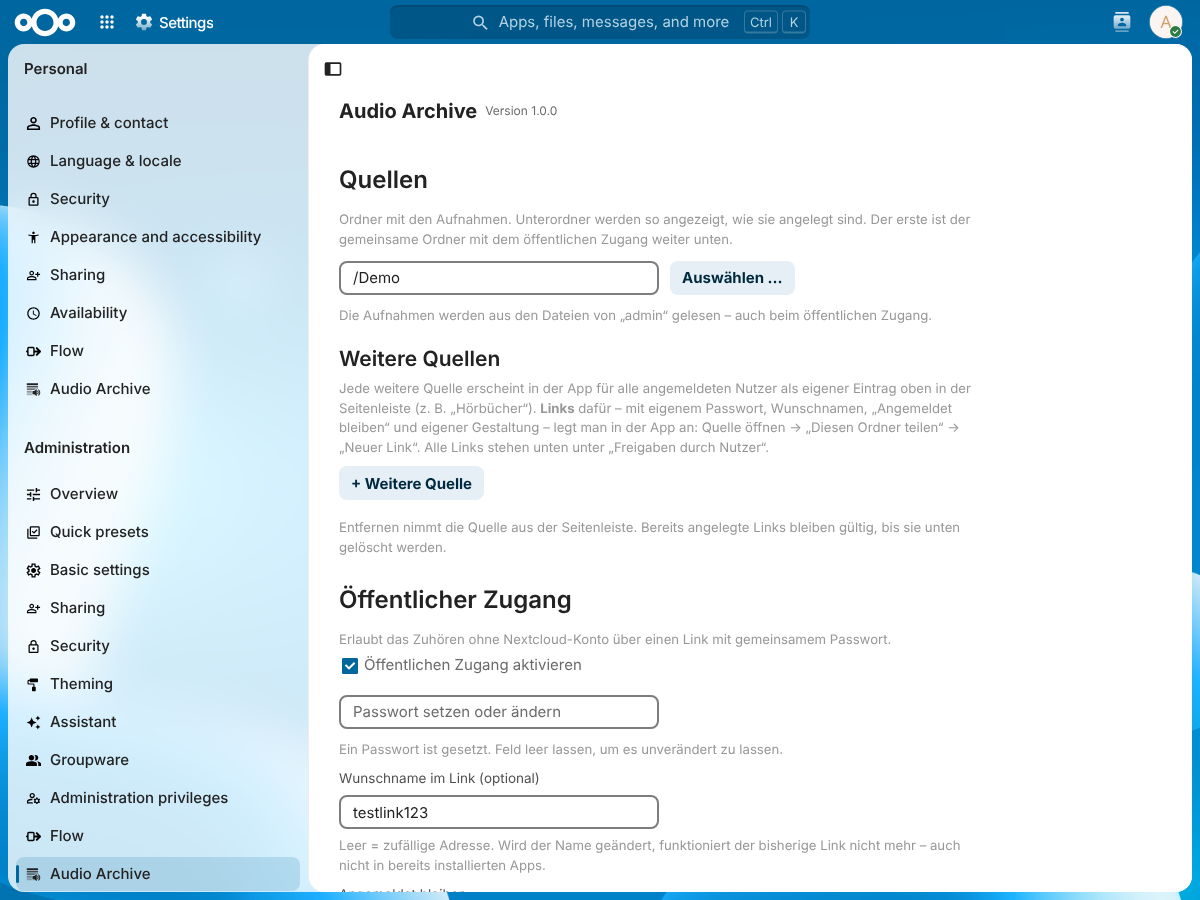
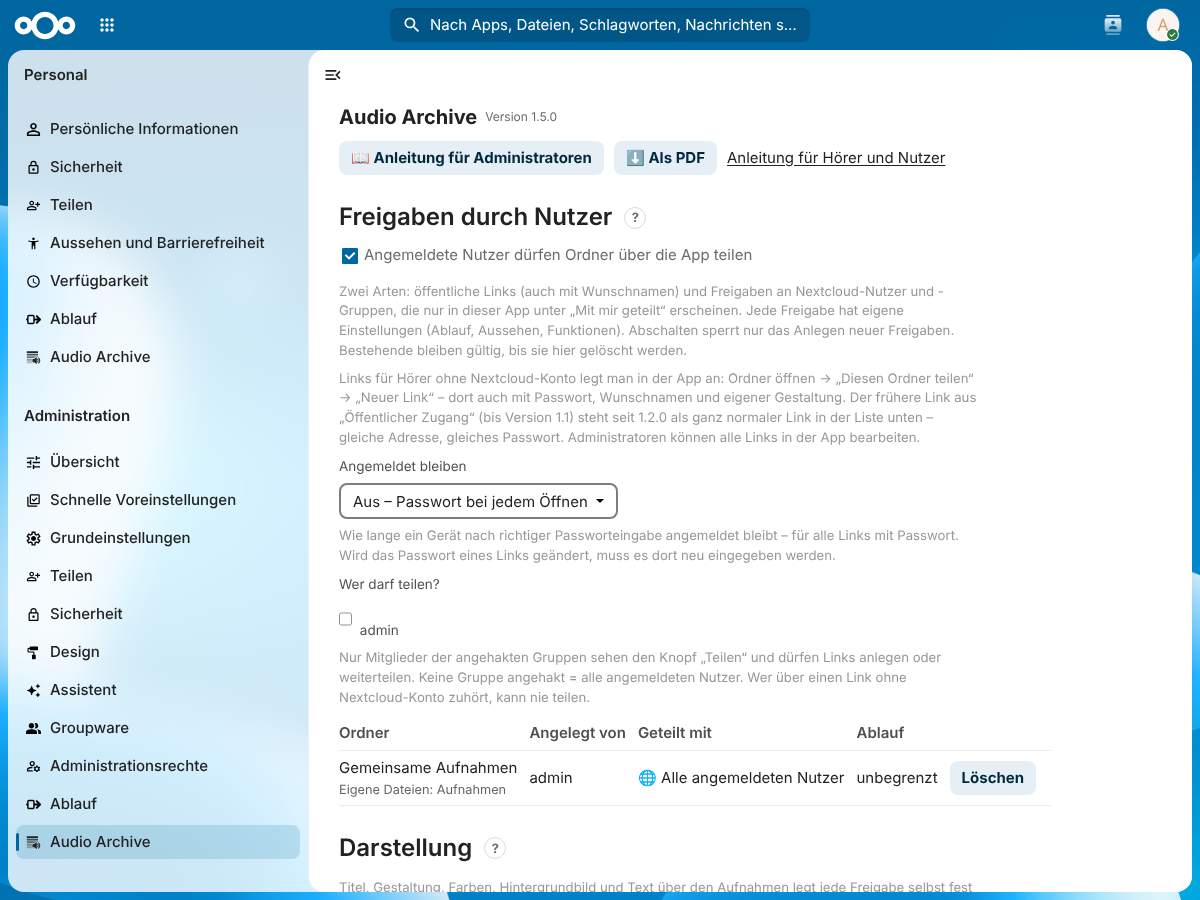
Store-Bilder automatisch aus der Test-Nextcloud, Bild 1 in Nextcloud-Optik
docs/screenshots.py erzeugt die vier Bildschirmfotos aus info.xml in der
Test-Nextcloud neu (Demo-Daten, Testnutzerin, Freigabe an alle).
release.sh prüft über screenshots/version.txt, dass sie zur Version passen.
Bilder für 1.5.0 neu erzeugt.

Assisted-by: ClaudeCode:claude-opus-5-5
Claude-Session: https://claude.ai/code/session_01Cqegn7mvWUCyrytK9gZg5i

Changed region(s): [[0.2775, 0.0933, 0.8633, 0.9956], [0.0, 0.1244, 0.2467, 0.9956], [0.0, 0.0, 1.0, 0.0933]]

diff --git a/docs/screenshots.py b/docs/screenshots.py
@@ -1,0 +1,266 @@
+#!/usr/bin/env python3
+"""Bildschirmfotos fuer den Nextcloud App Store neu erzeugen (ab 1.5.1).
+
+Laeuft gegen die Test-Nextcloud im Sandbox (siehe Vault: "Testumgebung mit
+echter Nextcloud"), in der die aktuelle Fassung der App aktiv ist. Legt
+Demo-Aufnahmen, eine Testnutzerin und eine Freigabe an alle an (mehrfach
+aufrufbar) und schreibt die vier Bilder aus appinfo/info.xml nach
+screenshots/. So zeigen sie immer die Oberflaeche und Versionsnummer der
+Version, die gerade ausgeliefert wird.
+
+    python3 docs/screenshots.py --nc ~/nc/server
+    python3 docs/screenshots.py --nc ~/nc/server --url http://127.0.0.1:8080/index.php
+
+Braucht: php (occ), ffmpeg, Python-Playwright mit Chromium.
+Bild 1 zeigt die Gestaltung "Klassisch" (Nextcloud-Optik, Standard-Blau),
+Bild 2 und 3 die Gestaltung "Modern", Bild 4 die Verwaltung.
+"""
+import argparse
+import json
+import os
+import subprocess
+from datetime import datetime
+from pathlib import Path
+
+from PIL import Image
+from playwright.sync_api import sync_playwright
+
+ROOT = Path(__file__).resolve().parent.parent
+APP = '/apps/audioarchive'
+ADMIN = ('admin', os.environ.get('AA_ADMIN_PASS', 'Admin-Test-123!'))
+LISTENER = ('anna', 'Anna-Demo-Pass-42!', 'Anna')
+SHARE_FOLDER = 'Aufnahmen'
+SHARE_TITLE = 'Gemeinsame Aufnahmen'
+
+# Ordner, Datei, Titel, Kuenstler, Sekunden, Tonhoehe (nur hoerbarer Platzhalter), Datum
+DEMO = [
+    ('Vorträge 2026/2026_01 Januar', '01 Ein neues Jahr', 'Ein neues Jahr', 'Audio Archive Demo', 154, 220, '2026-01-04'),
+    ('Vorträge 2026/2026_01 Januar', '02 Hoffnung', 'Hoffnung', 'Audio Archive Demo', 201, 247, '2026-01-11'),
+    ('Vorträge 2026/2026_02 Februar', '01 Neu anfangen', 'Neu anfangen', 'Audio Archive Demo', 97, 262, '2026-02-01'),
+    ('Vorträge 2026/2026_02 Februar', '02 Dankbarkeit', 'Dankbarkeit', 'Audio Archive Demo', 134, 294, '2026-02-08'),
+    ('Vorträge 2026/2026_02 Februar', '03 Unterwegs mit Fragen', 'Unterwegs mit Fragen', 'Audio Archive Demo', 171, 330, '2026-02-15'),
+    ('Vorträge 2026/2026_02 Februar', '04 Mut zur Lücke', 'Mut zur Lücke', 'Audio Archive Demo', 208, 349, '2026-02-22'),
+    ('Konzerte/Adventskonzert 2025', '01 Macht hoch die Tür', 'Macht hoch die Tür', 'Chor & Orchester', 97, 392, '2025-12-14'),
+    ('Konzerte/Adventskonzert 2025', '02 Tochter Zion', 'Tochter Zion', 'Chor & Orchester', 134, 440, '2025-12-14'),
+    ('Konzerte/Adventskonzert 2025', '03 Stille Nacht', 'Stille Nacht', 'Chor & Orchester', 171, 494, '2025-12-14'),
+    ('Podcast', 'Folge 01 – Wie alles begann', 'Wie alles begann', 'Audio Archive Podcast', 188, 523, '2026-03-02'),
+    ('Podcast', 'Folge 02 – Fragen aus der Gemeinde', 'Fragen aus der Gemeinde', 'Audio Archive Podcast', 215, 587, '2026-03-16'),
+]
+
+# Cover-Bild je Hauptordner: Farbe, Ueberschrift (Unterzeile = Ordnername)
+COVERS = {
+    'Vorträge 2026': ((185, 196, 106), 'Vorträge'),
+    'Konzerte': ((107, 185, 191), 'Konzerte'),
+    'Podcast': ((224, 163, 107), 'Podcast'),
+}
+FONT = '/usr/share/fonts/truetype/dejavu/DejaVuSans-Bold.ttf'
+
+
+def make_cover(target, color, heading, sub):
+    """Einfaches Cover: Kreise auf Farbflaeche, Ueberschrift und Ordnername."""
+    from PIL import ImageDraw, ImageFont
+    size = 800
+    img = Image.new('RGB', (size, size), color)
+    d = ImageDraw.Draw(img)
+    for r in range(80, 380, 50):
+        d.ellipse((size / 2 - r, size / 2 - r, size / 2 + r, size / 2 + r), outline='white', width=4)
+    try:
+        big, small = ImageFont.truetype(FONT, 104), ImageFont.truetype(FONT.replace('-Bold', ''), 52)
+    except OSError:
+        big = small = ImageFont.load_default()
+    d.text((size / 2, size / 2 - 40), heading, font=big, fill='white', anchor='mm')
+    d.text((size / 2, size / 2 + 60), sub, font=small, fill='white', anchor='mm')
+    img.save(target, quality=90)
+
+
+def occ(nc, *args, env=None):
+    return subprocess.run(['php', 'occ', *args], cwd=nc, check=True, capture_output=True,
+                          text=True, env={**os.environ, **(env or {})}).stdout
+
+
+def prepare_files(nc):
+    base = Path(nc) / 'data' / ADMIN[0] / 'files' / SHARE_FOLDER
+    for folder, name, title, artist, secs, freq, day in DEMO:
+        target = base / folder / (name + '.mp3')
+        if target.exists():
+            continue
+        target.parent.mkdir(parents=True, exist_ok=True)
+        subprocess.run(['ffmpeg', '-loglevel', 'error', '-y', '-f', 'lavfi',
+                        '-i', f'sine=frequency={freq}:duration={secs}', '-ac', '1', '-b:a', '48k',
+                        '-metadata', f'title={title}', '-metadata', f'artist={artist}',
+                        '-metadata', 'date=' + day[:4], str(target)], check=True)
+        stamp = datetime.fromisoformat(day + 'T10:00:00').timestamp()
+        os.utime(target, (stamp, stamp))
+    for folder in sorted({d[0] for d in DEMO}):
+        cover = base / folder / 'cover.jpg'
+        if not cover.exists():
+            make_cover(cover, *COVERS[folder.split('/')[0]], Path(folder).name)
+    occ(nc, 'files:scan', ADMIN[0], '-q')
+    users = occ(nc, 'user:list', '--output=json')
+    if LISTENER[0] not in json.loads(users):
+        occ(nc, 'user:add', '--password-from-env', f'--display-name={LISTENER[2]}', LISTENER[0],
+            env={'OC_PASS': LISTENER[1]})
+    else:
+        occ(nc, 'user:resetpassword', '--password-from-env', LISTENER[0], env={'OC_PASS': LISTENER[1]})
+
+
+class Session:
+    """Angemeldete Browser-Sitzung mit Zugriff auf die App-Schnittstelle."""
+
+    def __init__(self, browser, url, user, password, **context):
+        self.url = url
+        self.ctx = browser.new_context(locale='de-DE', **context)
+        self.page = self.ctx.new_page()
+        self.page.goto(url + '/login')
+        self.page.fill('#user', user)
+        self.page.fill('#password', password)
+        self.page.keyboard.press('Enter')
+        self.page.wait_for_url(lambda u: '/login' not in u)
+        self.page.wait_for_load_state('networkidle')
+        self.token = self.page.evaluate('document.head.dataset.requesttoken')
+
+    def api(self, method, path, data=None):
+        headers = {'requesttoken': self.token, 'Content-Type': 'application/json'}
+        r = self.page.request.fetch(self.url + APP + path, method=method, headers=headers,
+                                    data=json.dumps(data) if data is not None else None)
+        if not r.ok:
+            raise RuntimeError(f'{method} {path}: {r.status} {r.text()[:300]}')
+        return r.json()
+
+    def close(self):
+        self.ctx.close()
+
+
+def ensure_share(admin):
+    """Freigabe des Demo-Ordners an alle angemeldeten Nutzer, Kennung zurueck."""
+    for s in admin.api('GET', '/api/shares?source=home&path=' + SHARE_FOLDER).get('shares', []):
+        if s.get('kind') == 'internal' and s.get('path') == SHARE_FOLDER:
+            return s['id']
+    s = admin.api('POST', '/api/shares', {
+        'source': 'home', 'path': SHARE_FOLDER, 'kind': 'internal',
+        'members': [{'type': 'all', 'id': '*'}],
+        'settings': {'title': SHARE_TITLE, 'featureOffline': True},
+    })
+    return s['share']['id']
+
+
+def set_share_design(admin, share_id, design):
+    share = next(s for s in admin.api('GET', '/api/shares')['shares'] if s['id'] == share_id)
+    settings = dict(share['settings'], design=design)
+    admin.api('POST', f'/api/shares/{share_id}', {'settings': settings})
+
+
+def open_recording(page, url, source, path, play=True, at=37):
+    """App mit einer Aufnahme oeffnen; sie laeuft an, steht dann pausiert bei `at` Sekunden."""
+    page.goto(url + '#open=' + source + '|' + path)
+    page.wait_for_load_state('networkidle')
+    name = Path(path).stem
+    row = page.locator('.explorer-row', has_text=name).first
+    row.wait_for()
+    if play:
+        row.click()
+        page.wait_for_function('() => { const a = document.querySelector("audio"); return a && a.duration > 0; }')
+        page.evaluate(f'() => {{ const a = document.querySelector("audio"); a.pause(); a.currentTime = {at}; }}')
+    page.evaluate('() => document.activeElement && document.activeElement.blur()')
+    page.mouse.move(0, 0)
+    page.wait_for_timeout(1200)
+
+
+def shot_library(browser, url, share_id, out):
+    """Bild 1: Bibliothek am Rechner, eingebettet in Nextcloud, Gestaltung Klassisch."""
+    s = Session(browser, url, LISTENER[0], LISTENER[1], viewport={'width': 1200, 'height': 900})
+    s.api('POST', '/api/user/settings', {'design': 'nextcloud'})
+    open_recording(s.page, url + APP + '/', f'in:{share_id}',
+                   'Vorträge 2026/2026_02 Februar/02 Dankbarkeit.mp3')
+    s.page.screenshot(path=str(out / '1-library.png'))
+    Image.open(out / '1-library.png').resize((600, 450), Image.LANCZOS).save(out / '1-library-small.png')
+    s.close()
+
+
+def shot_phone(browser, url, share_id, out):
+    """Bild 2: installierte App am Telefon - Liste und Vollbild-Player nebeneinander."""
+    phone = dict(viewport={'width': 390, 'height': 844}, device_scale_factor=2,
+                 is_mobile=True, has_touch=True)
+    s = Session(browser, url, LISTENER[0], LISTENER[1], **phone)
+    s.api('POST', '/api/user/settings', {'design': 'custom'})
+    open_recording(s.page, url + APP + '/app', f'in:{share_id}',
+                   'Konzerte/Adventskonzert 2025/02 Tochter Zion.mp3', at=48)
+    left = s.page.screenshot()
+    s.page.click('#btn-expand')
+    s.page.wait_for_timeout(1500)
+    right = s.page.screenshot()
+    s.close()
+    compose_side_by_side(left, right, out / '2-player-phone.png')
+
+
+def compose_side_by_side(left_png, right_png, target, margin=40, gap=40, bg=(241, 236, 230)):
+    import io
+    a = Image.open(io.BytesIO(left_png)).convert('RGB')
+    b = Image.open(io.BytesIO(right_png)).convert('RGB')
+    w = margin * 2 + a.width + gap + b.width
+    h = margin * 2 + max(a.height, b.height)
+    canvas = Image.new('RGB', (w, h), bg)
+    canvas.paste(a, (margin, margin))
+    canvas.paste(b, (margin + a.width + gap, margin))
+    canvas.save(target, optimize=True)
+
+
+def shot_share(browser, url, out):
+    """Bild 3: Ordner teilen - Formular fuer einen neuen Link (Gestaltung Modern)."""
+    s = Session(browser, url, *ADMIN, viewport={'width': 1200, 'height': 900})
+    s.api('POST', '/api/user/settings', {'design': 'custom'})
+    open_recording(s.page, url + APP + '/', 'home',
+                   SHARE_FOLDER + '/Vorträge 2026/2026_02 Februar/01 Neu anfangen.mp3', play=False)
+    s.page.click('#share-btn')
+    s.page.locator('#share-panel button', has_text='Neuer Link').first.click()
+    s.page.wait_for_timeout(1200)
+    s.page.mouse.move(0, 0)
+    s.page.screenshot(path=str(out / '3-share.png'))
+    s.close()
+
+
+def shot_admin(browser, url, out):
+    """Bild 4: Einstellungen der Verwaltung in Nextcloud."""
+    s = Session(browser, url, *ADMIN, viewport={'width': 1200, 'height': 900})
+    s.page.goto(url + '/settings/admin/audioarchive')
+    s.page.wait_for_load_state('networkidle')
+    s.page.wait_for_timeout(1000)
+    s.page.screenshot(path=str(out / '4-admin.png'))
+    s.close()
+
+
+def main():
+    ap = argparse.ArgumentParser(description=__doc__.split('\n')[0])
+    ap.add_argument('--nc', required=True, help='Verzeichnis der Test-Nextcloud (mit occ)')
+    ap.add_argument('--url', default='http://127.0.0.1:8080/index.php')
+    ap.add_argument('--out', default=str(ROOT / 'screenshots'))
+    args = ap.parse_args()
+    out = Path(args.out)
+    out.mkdir(parents=True, exist_ok=True)
+
+    prepare_files(args.nc)
+    with sync_playwright() as p:
+        # Deutsches Datumsformat in Datumsfeldern: Chromium richtet sich
+        # nach der Sprache des Prozesses, nicht nach locale des Kontexts
+        browser = p.chromium.launch(args=['--lang=de-DE'], env={
+            **os.environ, 'LANG': 'de_DE.UTF-8', 'LANGUAGE': 'de', 'LC_ALL': 'de_DE.UTF-8'})
+        admin = Session(browser, args.url, *ADMIN)
+        share_id = ensure_share(admin)
+        set_share_design(admin, share_id, 'nextcloud')
+        shot_library(browser, args.url, share_id, out)
+        set_share_design(admin, share_id, 'custom')
+        shot_phone(browser, args.url, share_id, out)
+        shot_share(browser, args.url, out)
+        shot_admin(browser, args.url, out)
+        admin.close()
+        browser.close()
+    version = (ROOT / 'appinfo' / 'info.xml').read_text().split('<version>')[1].split('<')[0]
+    # release.sh prueft diese Datei: Bilder muessen zur Version passen
+    (out / 'version.txt').write_text(version + '\n')
+    print(f'Bildschirmfotos fuer {version} in {out}:')
+    for f in sorted(out.glob('*.png')):
+        print(f'  {f.name}  {Image.open(f).size}')
+
+
+if __name__ == '__main__':
+    main()

diff --git a/docs/ENTWICKLUNG.md b/docs/ENTWICKLUNG.md
@@ -2369,3 +2369,30 @@ Ansicht, Verlassen → Dialog (Abbrechen bleibt, Verwerfen wechselt, Speichern
 speichert und wechselt), ohne Änderungen kein Dialog, neuer Link bleibt offen,
 Handy-Breite 390 px.
 Einspielen: Container-Neustart; keine Datenbankänderung.
+
+## Bildschirmfotos für den Store (nach 1.5.0, ohne neue Version)
+
+Wunsch von Henoch (Chat, 19.11.2026, 08:25): Die Store-Bilder stammten noch
+von 1.0.0 (unten „Version 1.0.0“, Verwaltung mit den seit 1.3.0 entfernten
+Quellen). Sie sollen bei jeder Version aus dem Test neu entstehen; das erste
+Bild blau in der Nextcloud-Optik.
+
+- **`docs/screenshots.py`** (nur Entwicklung, nicht im Store-Archiv): legt in
+  der Test-Nextcloud Demo-Aufnahmen mit Cover, die Testnutzerin „Anna“ und
+  eine Freigabe „Gemeinsame Aufnahmen“ an alle an (mehrfach aufrufbar) und
+  schreibt die vier Bilder aus `info.xml` nach `screenshots/`:
+  1. Bibliothek am Rechner, eingebettet in Nextcloud, Gestaltung
+     „Klassisch“ (Standard-Blau) – plus `1-library-small.png`
+  2. installierte App am Telefon: Liste und Vollbild-Player nebeneinander
+     (Gestaltung „Modern“)
+  3. „Diesen Ordner teilen“ → „Neuer Link“ mit den Tabs
+  4. Einstellungen der Verwaltung
+- Aufruf: `python3 docs/screenshots.py --nc <nextcloud-verzeichnis>`
+  (Adresse mit `--url`, Standard `http://127.0.0.1:8080/index.php`).
+  Chromium bekommt `LANG/LC_ALL=de_DE`, sonst zeigen Datumsfelder
+  `mm/dd/yyyy`.
+- Das Skript schreibt `screenshots/version.txt`; **`release.sh` bricht ab**,
+  wenn sie nicht zur Version in `info.xml` passt – so kann keine Version mit
+  alten Bildern in den Store.
+- Die Bilder liegen nicht im Archiv; der Store lädt sie über die Adressen in
+  `info.xml` von GitHub (`main`). Neue Bilder brauchen deshalb nur einen Push.
